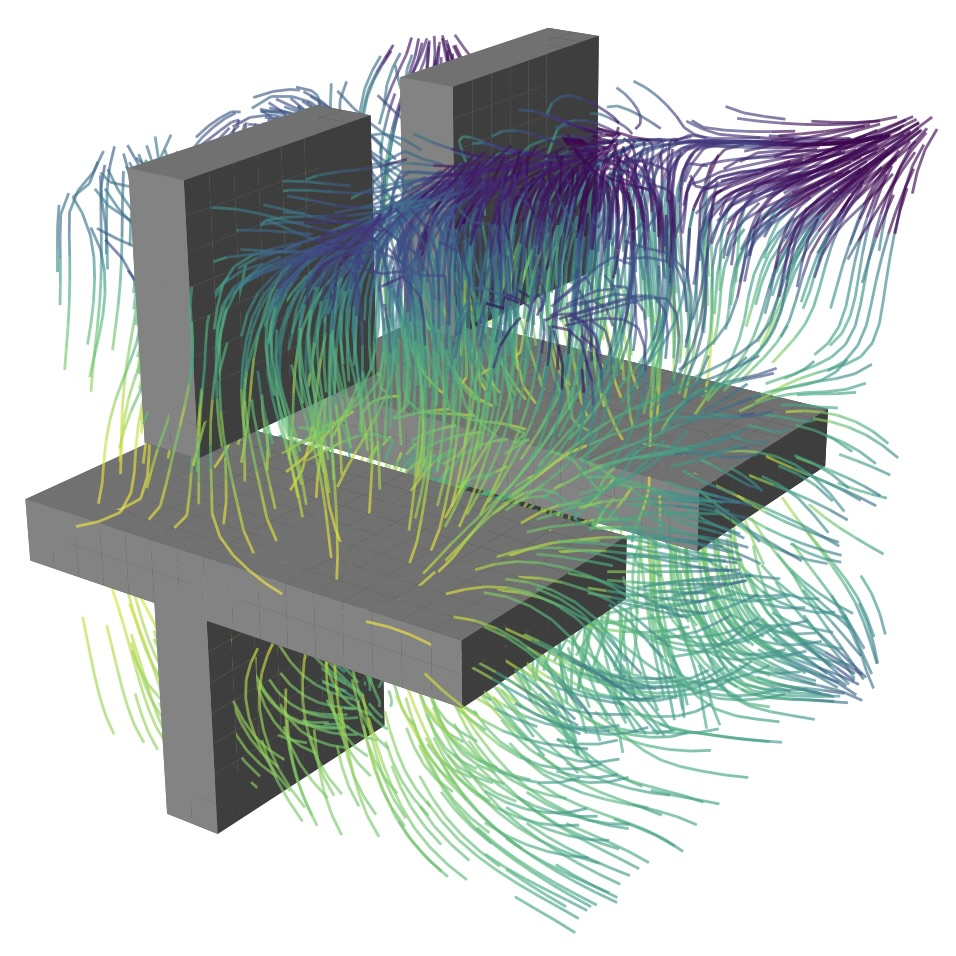
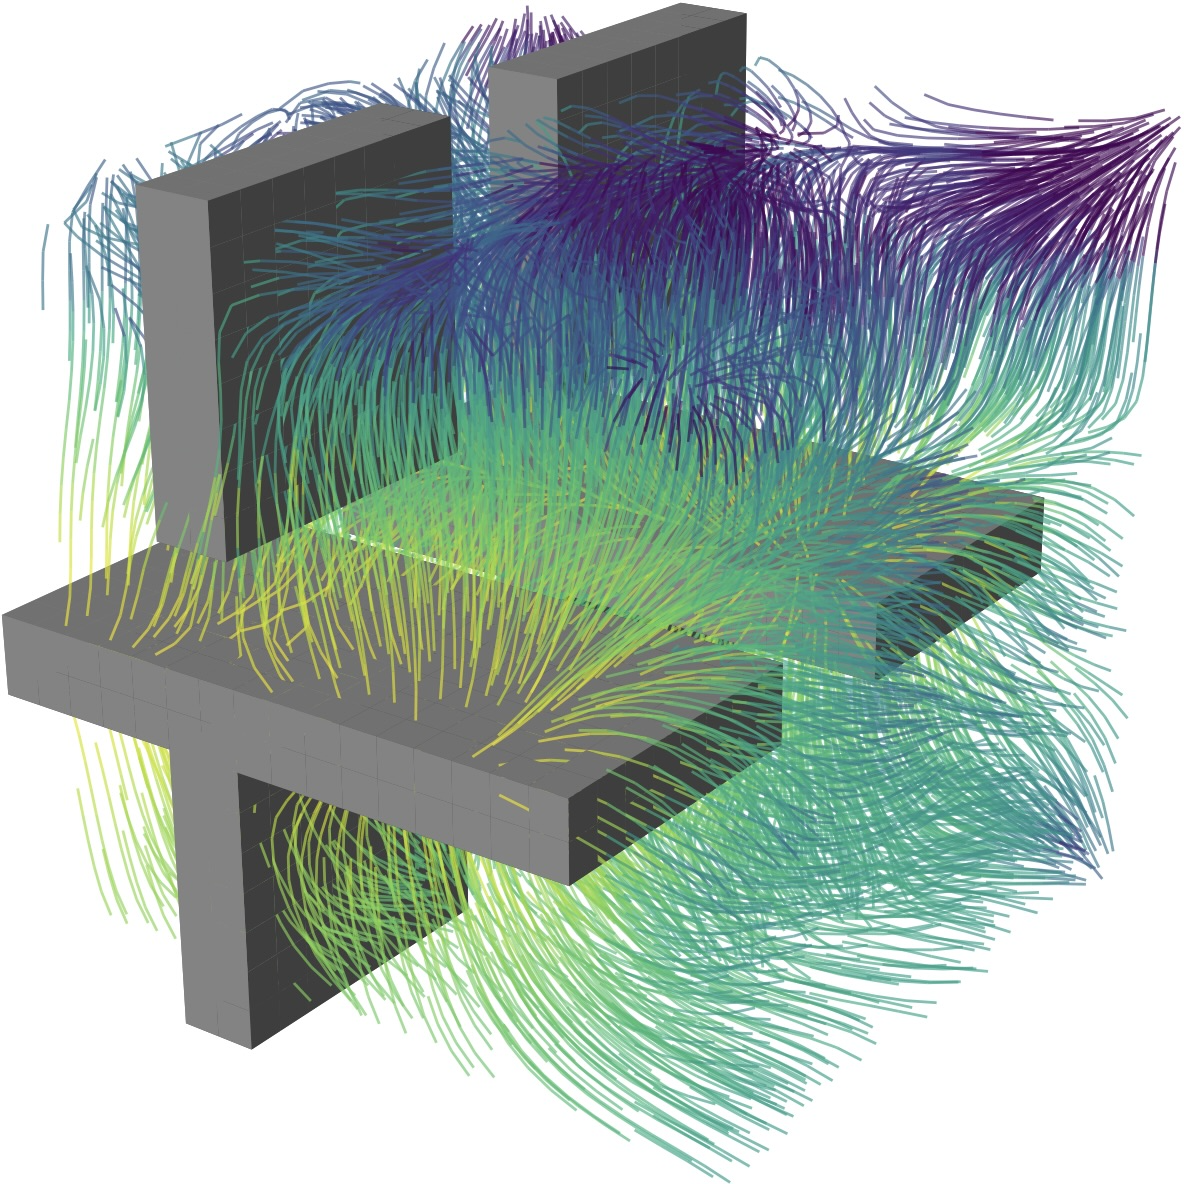
added neuralSPAI ribbons

diff --git a/Paper/paper.tex b/Paper/paper.tex
@@ -95,7 +95,7 @@ $449.6\!\pm\!83.7$\,ms for AMGX \textsc{multicolor\_dilu} --- a $2.1\times$ spee
 the fastest classical GPU baseline (Jacobi) and over $24\times$ over AMGX
 \textsc{multicolor\_dilu}. Against the learned baseline most closely related to ours,
 neural SPAI~\cite{Yang2025sparse} re-trained per scale on the same benchmark with its
-CUDA apply path, we measure a $3.3\times$ end-to-end speedup at $N\!=\!8\,192$, with the
+CUDA apply path, we measure a $2.7\times$ end-to-end speedup at $N\!=\!8\,192$, with the
 gap dominated by the irregular-gather SpMVs in its apply rather than by iteration count.
 \end{abstract}
 
@@ -1163,20 +1163,21 @@ frame because $A$ changes; we move that cost out of the per-frame budget entirel
     range; the closest classical GPU baseline (Jacobi) covers $\sim\!85$ down to
     $\sim\!16$\,fps on the same hardware, and the closest learned baseline
     (neural SPAI~\cite{Yang2025sparse}, re-trained per scale on our benchmark) covers
-    $\sim\!45$ down to $\sim\!14$\,fps. AMGX SPAI and GPU IC sit above $40$\,ms across
+    $\sim\!54$ down to $\sim\!14$\,fps. AMGX SPAI and GPU IC sit above $40$\,ms across
     all scales despite much lower iteration counts, dominated by unparallelizable
     triangular solves or V-cycle level synchronization. PyAMG (CPU) is omitted: its
     setup cost scales nonlinearly with contrast under stiff multiphase systems, making
     its curve noisy and not directly comparable to GPU-resident methods; full
     per-method timings and iteration counts appear in
-    Table~\ref{tab:full_perf_table_main}.}
+    Tables~\ref{tab:full_perf_table_main} and~\ref{tab:neural_time_components_main}.}
   \label{fig:scale_methods}
 \end{figure}
 
 \paragraph{Main result.}
 Fig.~\ref{fig:scale_methods} reports per-frame mean$\pm$std solve time across $20$ test
 frames per scale; Table~\ref{tab:full_perf_table_main} consolidates the same data with
-per-method iteration counts. Our method runs at interactive framerates across the full
+per-method iteration counts, including CPU-reference rows for unpreconditioned CG and
+Jacobi for CPU/GPU symmetry across baselines. Our method runs at interactive framerates across the full
 range: $17.9$\,ms ($\sim\!56$\,fps, $168$ iters) at $N\!=\!8\,192$ and $47.6$\,ms
 ($\sim\!21$\,fps, $394$ iters) at $N\!=\!16\,384$. The closest GPU baseline that
 delivers convergence in the same regime is Jacobi, at $39.5$\,ms ($968$ iters) and
@@ -1184,11 +1185,13 @@ $65.7$\,ms ($1\,543$ iters) respectively --- a $\sim\!4\!\times$--$6\!\times$ sm
 iteration count on identical hardware and a $1.4$--$2.2\!\times$ wall-clock gap.
 The learned neural SPAI baseline of Yang \emph{et al.}~\cite{Yang2025sparse},
 re-trained per scale on our benchmark and running its CUDA apply path, lands at
-$59.7$\,ms ($343$ iters) and $72.1$\,ms ($495$ iters), trailing our method by
-$3.3\times$ at $N\!=\!8\,192$ and $1.5\times$ at $N\!=\!16\,384$ despite an
+$48.1$\,ms ($338$ iters) and $70.9$\,ms ($496$ iters), trailing our method by
+$2.7\times$ at $N\!=\!8\,192$ and $1.5\times$ at $N\!=\!16\,384$ despite an
 iteration count within $\sim\!2\!\times$ of ours --- the gap is dominated by the
 two random-gather SpMVs that its apply must dispatch per iteration, in contrast to our
 single batched-GEMM apply on contiguous tensors (\S\ref{sec:application}).
+Table~\ref{tab:neural_time_components_main} breaks this out directly by scale for
+the two neural methods, reporting inference-time versus PCG-solve-time contributions.
 The IC- and AMG-class baselines achieve very low iteration counts ($\sim\!30$--$40$
 for GPU \textsc{multicolor\_dilu}, $1$--$3$ for AMGX SPAI), but their per-iteration
 cost is dominated by sequential triangular solves or level-by-level V-cycle
@@ -1570,7 +1573,7 @@ the CUDA-Graph speedup --- an upper bound on what graph capture alone buys
 without our preconditioner. CPU rows are reference only.
 \textbf{Bold} marks the fastest GPU time at each scale.}
 \label{tab:full_perf_table_main}
-\scriptsize\setlength{\tabcolsep}{2.4pt}
+\scriptsize\setlength{\tabcolsep}{2.0pt}
 \begin{tabular}{@{}l ccccc@{}}
 \toprule
 Method & $1\,024$ & $2\,048$ & $4\,096$ & $8\,192$ & $16\,384$ \\
@@ -1580,14 +1583,45 @@ Jacobi (GPU)                  & 12.7 (325)   & 16.1 (429)   & 31.7 (839)     & 3
 AMGX SPAI (GPU)               & 53.2 (1)     & 82.0 (1)     & 76.0 (1)       & 134.5 (2)      & 188.3 (3) \\
 IC / DILU (GPU)               & 139.5 (11)   & 208.4 (15)   & 312.8 (22)     & 503.0 (30)     & 579.7 (40) \\
 Neural SPAI (GPU)~\cite{Yang2025sparse}
-                              & 22.1 (122)   & 41.8 (170)   & 41.0 (305)     & 59.7 (343)     & 72.1 (495) \\
+                              & 18.4 (118)   & 26.0 (167)   & 38.3 (246)     & 48.1 (338)     & 70.9 (496) \\
 \textbf{Ours (GPU)}           & \textbf{7.0 (47)} & \textbf{8.8 (66)} & \textbf{9.2 (80)} & \textbf{17.9 (168)} & \textbf{47.6 (394)} \\
 \midrule
 \multicolumn{6}{@{}l}{\textit{CPU reference (not in competition with GPU rows)}}\\
+Unprec.~CG (CPU)              & 3.2 (486)     & 7.2 (488)     & 27.4 (1\,009)   & 67.6 (1\,061)   & 249.6 (1\,506) \\
+Jacobi (CPU)                  & 1.8 (257)     & 7.5 (433)     & 18.3 (655)      & 47.8 (707)      & 199.8 (1\,234) \\
 IC (CPU)                      & 128.9 (59)   & 51.6 (96)    & 159.9 (113)    & 1\,478.9 (170) & 13\,968.4 (254) \\
 AMG (CPU)                     & 22.2 (5)     & 24.8 (9)     & 24.5 (5)       & 109.8 (7)      & 674.2 (10) \\
 Neural SPAI (CPU)~\cite{Yang2025sparse}
-                              & 10.3 (122)   & 27.0 (170)   & 29.7 (305)     & 71.1 (343)     & 189.7 (495) \\
+                              & 6.7 (118)    & 10.9 (167)   & 25.6 (246)     & 62.3 (338)     & 202.4 (496) \\
+\bottomrule
+\end{tabular}
+\end{table}
+
+\begin{table}[!htbp]
+\centering
+\caption{Neural-method runtime components by scale: inference time, PCG solve time,
+total time (ms), and mean PCG iterations. Neural SPAI uses the CUDA apply path from the
+re-trained-per-scale baseline of~\cite{Yang2025sparse}; ours uses the scale-sweep
+configuration reported in this paper.}
+\label{tab:neural_time_components_main}
+\scriptsize\setlength{\tabcolsep}{5pt}
+\begin{tabular}{@{}lcccc@{}}
+\toprule
+Scale $N$ & Infer. (ms) & Solve (ms) & Total (ms) & Iters \\
+\midrule
+\multicolumn{5}{@{}l}{\textit{Neural SPAI (GPU, CUDA apply)~\cite{Yang2025sparse}}}\\
+$1\,024$  & 4.6  & 13.8 & 18.4 & 118 \\
+$2\,048$  & 3.8  & 22.2 & 26.0 & 167 \\
+$4\,096$  & 6.6  & 31.7 & 38.3 & 246 \\
+$8\,192$  & 4.4  & 43.8 & 48.1 & 338 \\
+$16\,384$ & 4.9  & 66.0 & 70.9 & 496 \\
+\midrule
+\multicolumn{5}{@{}l}{\textit{Ours (GPU)}}\\
+$1\,024$  & 1.9  & 5.7  & 7.6  & 81  \\
+$2\,048$  & 1.9  & 7.0  & 8.9  & 96  \\
+$4\,096$  & 2.2  & 6.1  & 8.2  & 78  \\
+$8\,192$  & 4.0  & 13.3 & 17.3 & 162 \\
+$16\,384$ & 17.0 & 48.5 & 65.5 & 519 \\
 \bottomrule
 \end{tabular}
 \end{table}

diff --git a/Assets/Scripts/plot_eval_results.py b/Assets/Scripts/plot_eval_results.py
@@ -235,9 +235,9 @@ def _print_ablation_leaf_data_audit(kept: pd.DataFrame, excluded: pd.DataFrame, 
 def _load_neural_spai_rows(results_dir: pathlib.Path) -> pd.DataFrame:
     """Read Neural SPAI (CUDA) timings from the lsp_scale_infer_summary CSV.
 
-    The neural-SPAI sweep records mean totals only (no per-frame std), so the
-    returned rows fill total_ms_std/iters_std with NaN — the plotting code
-    handles missing std gracefully (no ribbon).
+    Newer summaries include per-scale std columns across frames; when present
+    they are propagated so Neural SPAI receives uncertainty ribbons exactly
+    like the other methods.
     """
     p = results_dir / "lsp_scale_infer_summary.csv"
     if not p.exists():
@@ -248,7 +248,10 @@ def _load_neural_spai_rows(results_dir: pathlib.Path) -> pd.DataFrame:
             ]
         )
     raw = pd.read_csv(p)
-    rows = raw[raw["method"].astype(str) == "Neural+CUDA"].copy()
+    rows = raw[
+        (raw["method"].astype(str) == "Neural+CUDA")
+        & (raw.get("status", pd.Series(index=raw.index, dtype=object)).astype(str) == "ok")
+    ].copy()
     if rows.empty:
         return pd.DataFrame(
             columns=[
@@ -263,9 +266,9 @@ def _load_neural_spai_rows(results_dir: pathlib.Path) -> pd.DataFrame:
             "method": "neural_spai",
             "device": "gpu",
             "total_ms": pd.to_numeric(rows["total_time_ms"], errors="coerce"),
-            "total_ms_std": float("nan"),
+            "total_ms_std": pd.to_numeric(rows.get("total_time_ms_std"), errors="coerce"),
             "iters": pd.to_numeric(rows["iterations"], errors="coerce"),
-            "iters_std": float("nan"),
+            "iters_std": pd.to_numeric(rows.get("iterations_std"), errors="coerce"),
         }
     )
     return out

diff --git a/Paper/supplementary.tex b/Paper/supplementary.tex
@@ -83,9 +83,9 @@ hyperparameter configurations (smoother type, coarsening strategy, maximum level
 and verified that none meaningfully reduces total time relative to the default.
 CPU PyAMG uses its default classical AMG cycle. AMGX SPAI is included as the
 sparse-approximate-inverse data point; we keep its vendor defaults because the
-neural SPAI baseline whose public implementation does not currently support our
-problem class (main paper, footnote in \S7.1) would be the natural learned
-comparison, not AMGX SPAI's hand-tuned variants.
+neural SPAI learned baseline is evaluated separately with per-scale retraining
+on the same benchmark distribution; AMGX SPAI here remains the classical
+sparse-approximate-inverse reference rather than a proxy for the learned model.
 
 \paragraph{Convergence criterion.}
 All reported solve times and iteration counts are to a relative residual tolerance
@@ -322,7 +322,7 @@ Unprec.~CG (GPU)             & $497\!\pm\!144$ & $650\!\pm\!240$ & $1153\!\pm\!4
 Jacobi (GPU)                 & $325\!\pm\!83$  & $429\!\pm\!112$ & $839\!\pm\!476$  & $968\!\pm\!261$   & $1543\!\pm\!1137$ \\
 IC / DILU (GPU)              & $11\!\pm\!1$    & $15\!\pm\!1$    & $22\!\pm\!4$     & $30\!\pm\!5$      & $40\!\pm\!4$ \\
 AMG / AMGX (GPU)             & $1\!\pm\!0$     & $1\!\pm\!0$     & $1\!\pm\!1$      & $2\!\pm\!0$       & $3\!\pm\!0$ \\
-Neural SPAI (GPU)~\cite{Yang2025sparse} & $122$           & $170$           & $305$            & $343$             & $495$ \\
+Neural SPAI (GPU)~\cite{Yang2025sparse} & $118\!\pm\!6$   & $167\!\pm\!8$   & $246\!\pm\!41$   & $338\!\pm\!24$    & $496\!\pm\!107$ \\
 IC (CPU)                     & $59\!\pm\!18$   & $96\!\pm\!23$   & $113\!\pm\!31$   & $170\!\pm\!47$    & $254\!\pm\!61$ \\
 AMG (CPU)                    & $5\!\pm\!6$     & $9\!\pm\!6$     & $5\!\pm\!7$      & $7\!\pm\!8$       & $10\!\pm\!8$ \\
 \textbf{Ours (GPU)}          & $\mathbf{47\!\pm\!9}$ & $\mathbf{66\!\pm\!16}$ & $\mathbf{80\!\pm\!24}$ & $\mathbf{168\!\pm\!26}$ & $\mathbf{394\!\pm\!68}$ \\
@@ -333,8 +333,8 @@ AMG (CPU)                    & $5\!\pm\!6$     & $9\!\pm\!6$     & $5\!\pm\!7$  
 \noindent
 The neural SPAI baseline is re-trained per scale (one network per $N$) using
 the SAI loss of~\cite{Yang2025sparse} on the same training distribution as
-ours; the row reports the mean iteration count from a single inference run
-per scale (no across-frame std). CPU AMG and GPU AMGX achieve very low
+ours; the row reports mean$\pm$std across the same per-scale test-frame
+evaluation as the other methods. CPU AMG and GPU AMGX achieve very low
 iteration counts ($\le\!10$) but pay for it in per-iteration V-cycle
 synchronization, putting them above the interactive budget at every scale
 (main paper, Fig.~5). GPU IC/DILU sits at $11$--$40$ iterations, with each